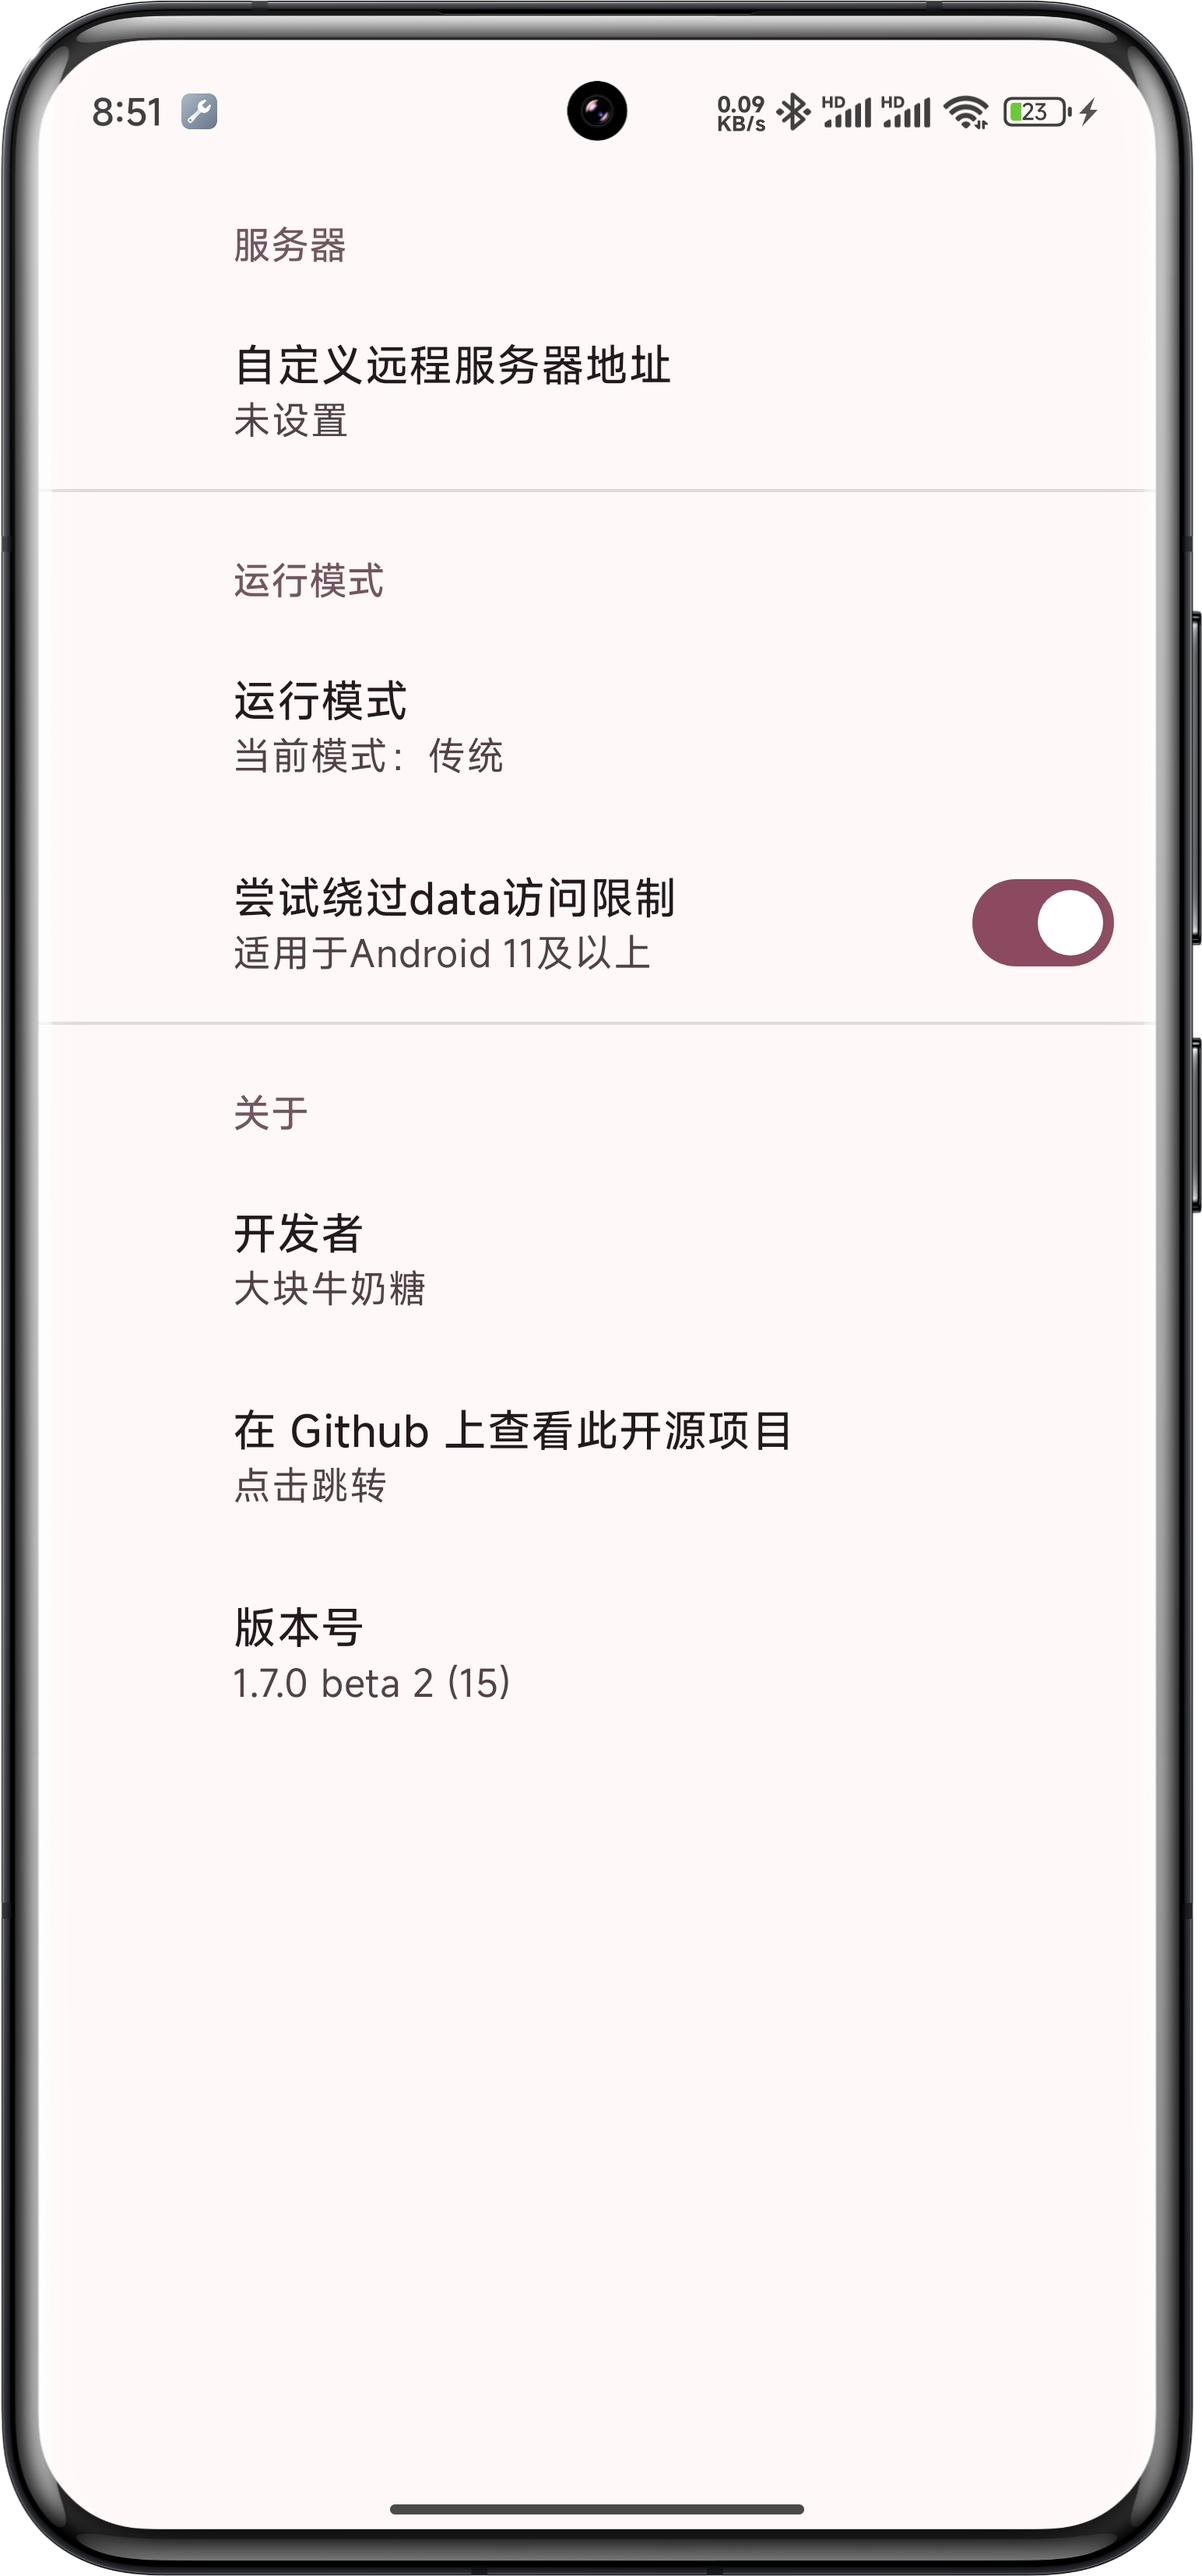
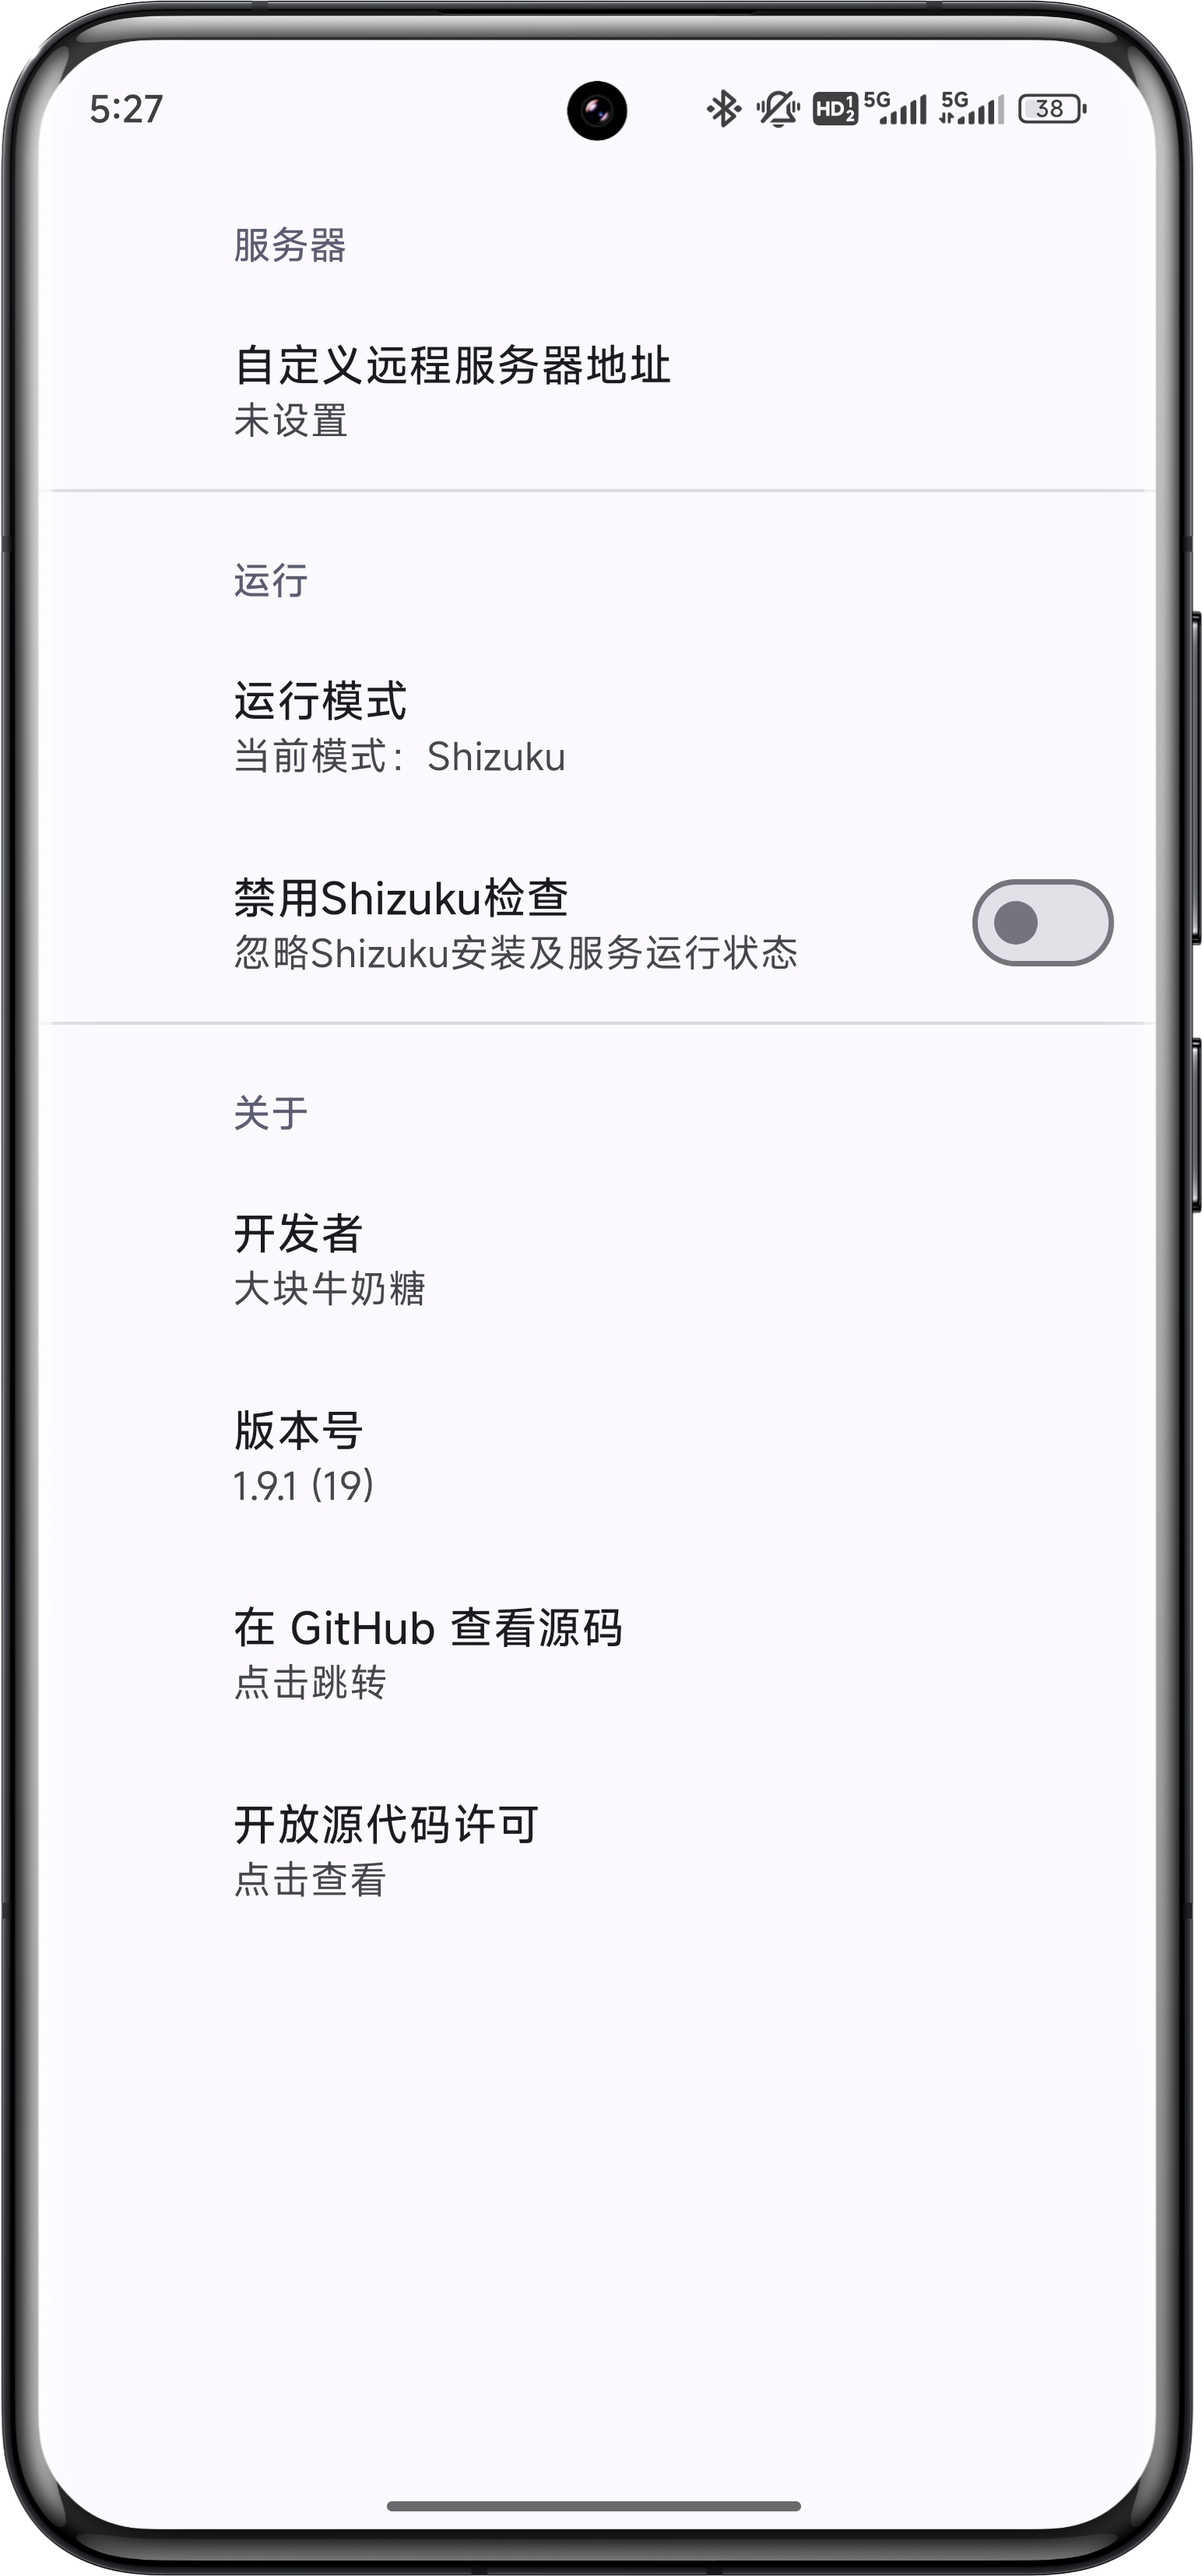
完善README，更新截图

diff --git a/README.md b/README.md
@@ -2,55 +2,58 @@
 
 ## 简介
 
-RotaenoUploader 可以上传游戏 Rotaeno （旋转音律） 的保存数据到指定服务器，通常用于成绩分析。
+RotaenoUploader 可以上传游戏 Rotaeno （旋转音律） 的保存数据到指定服务器，通常用于成绩分析。  
+兼容 Android 7.0 及以上系统。
 
 ## 功能
 
 - 上传游戏保存数据到指定服务器
 - 复制 ObjectId 到剪贴板
 - 支持绕过从Android 11开始的/Android/data/路径访问限制
+- 支持使用Shizuku服务访问游戏数据，作为高版本Android限制data访问的替代方案
 
 ## 截图
 
-| 欢迎向导 | 主界面 | 设置 |
-|:------:|:----:|:-------:|
+|              欢迎向导               |             主界面             |               设置               |
+|:-------------------------------:|:---------------------------:|:------------------------------:|
 | ![欢迎界面](Screenshot_Welcome.png) | ![主界面](Screenshot_Main.png) | ![设置](Screenshot_Settings.png) |
 
 
 ## 使用说明
 
-1. 打开应用程序，点击右上角进入设置，填入服务器地址。
+1. 打开应用程序，点击右上角进入设置，填入目标服务器地址。
 2. 回到主界面，点击“上传游戏数据”卡片，应用会自动获取游戏数据，解析出objectId并将游戏存档并上传到指定的服务器。
 
-## 上传格式
+## 网络请求流程
 
-上传的数据是以 JSON 格式发送到服务器的，具体格式如下：
+RotaenoUploader 通过 HTTP POST 请求将游戏数据上传到指定服务器。数据的发送格式和请求细节如下：
 
-```json
-{
-  "object-id": "string",
-  "save-data": "base64_encoded_string"
-}
-```
-
-- `object-id`：唯一标识符。位于/storage/emulated/0/Android/data/com.xd.rotaeno.googleplay/files/RotaenoLC/.userdata
-- `save-data`：经过 Base64 编码的游戏保存数据内容。位于/storage/emulated/0/Android/data/com.xd.rotaeno.googleplay/files/路径下。
-
-游戏的保存数据是加密的，本应用只会原封不动上传，不负责解密。
+1. **请求方法**：使用 `POST` 方法，发送 JSON 数据。
+2. **请求头**：
+    - `Content-Type: application/json; charset=utf-8`
+3. **请求体格式**：
+   请求体为 JSON 格式，包含两个字段：
+   ```json
+   {
+     "object-id": "string",
+     "save-data": "base64_encoded_string"
+   }
+   ```
+    - `object-id`：游戏数据的唯一标识符，用于在服务器端区分不同用户的数据。
+    - `save-data`：经过 Base64 编码的游戏数据，保证数据可以以文本方式传输。
 
 ## 声明
 
-本应用只会读取游戏数据，不会修改。游戏数据只会上传到您指定的服务器，不会与官方服务器通信。  
-开发者本着对此游戏的喜爱开发了这个应用，请勿用于非法用途。
+本应用只会读取游戏数据，不会进行任何修改或与官方服务器通信。所有数据传输仅在您指定的服务器之间进行，且不会进行解密操作。  
 
 ## 联系方式
 
-如果您有任何问题或需要帮助，请联系：
+如果您有任何问题或需要帮助，请提交Issue或联系：
 
 - 邮箱：ohayo@milkycandy.cn
 
-## 开源协议
+## 开放源代码许可
 
-RotaenoUploader 遵循 Apache 2.0 开源协议。详情请参见 [LICENSE](LICENSE) 文件。
+RotaenoUploader 使用 Apache License 2.0 。详情请参见 [LICENSE](LICENSE) 。
 
 ---
